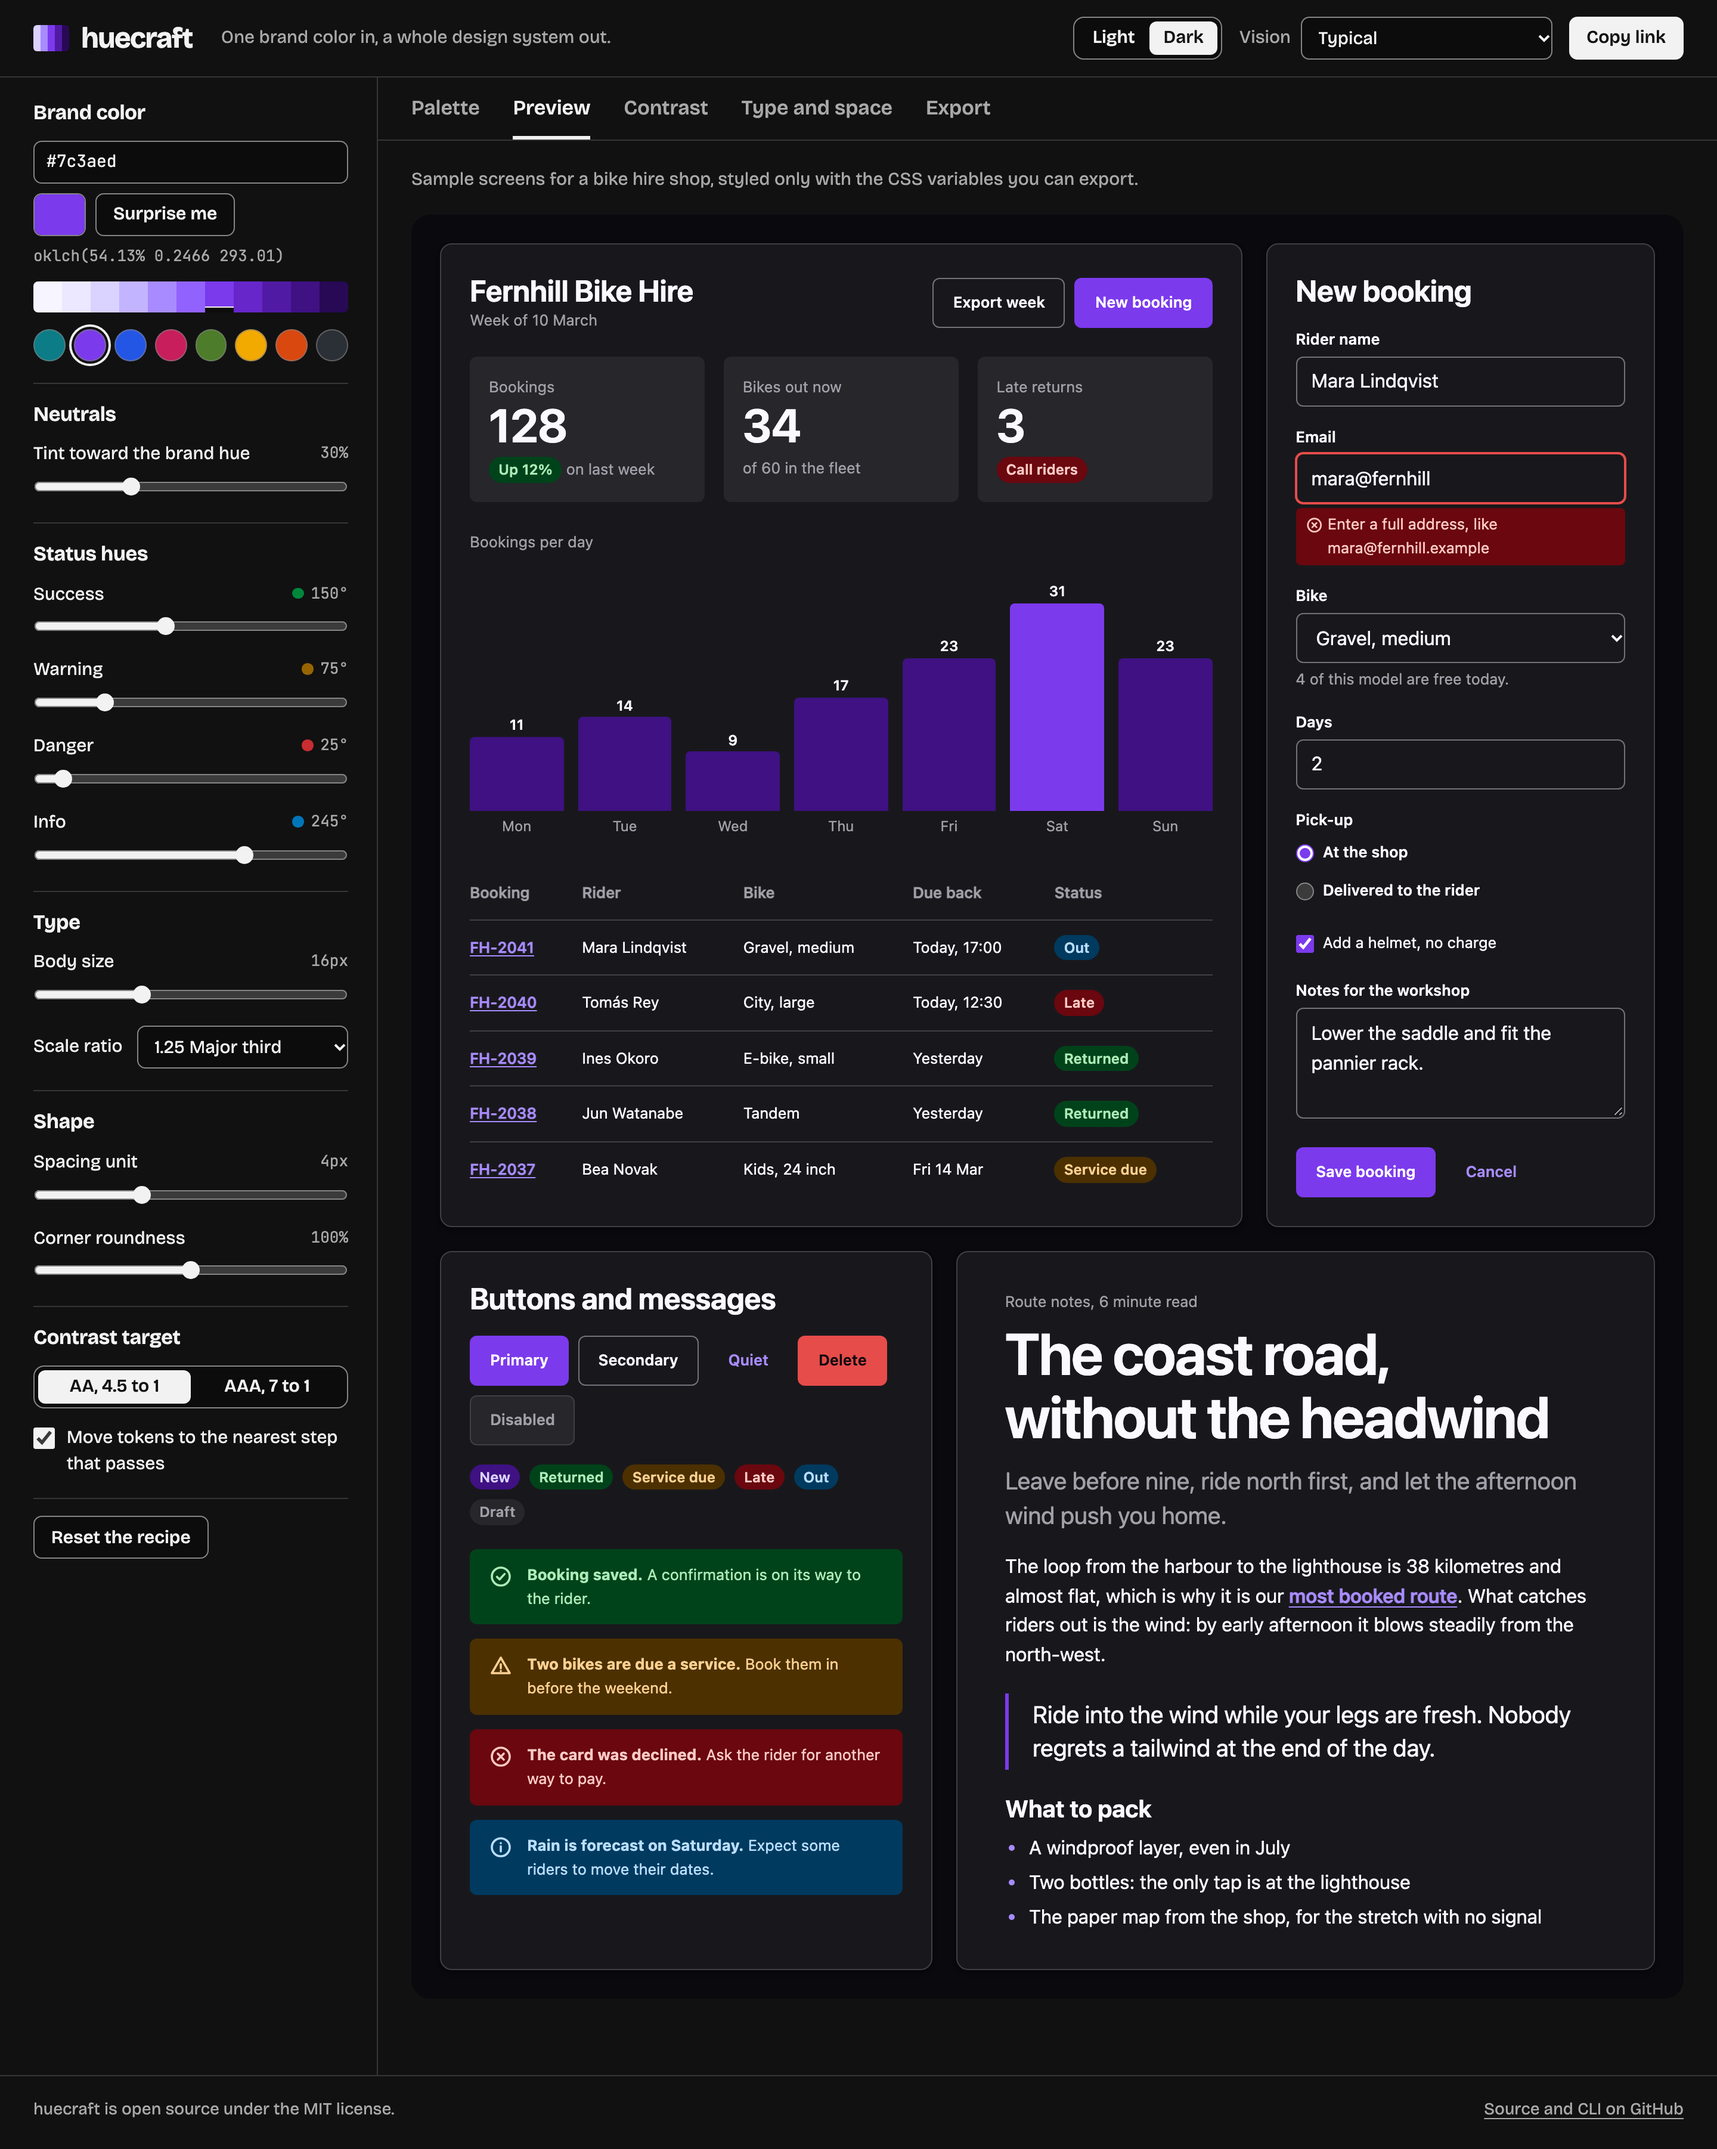
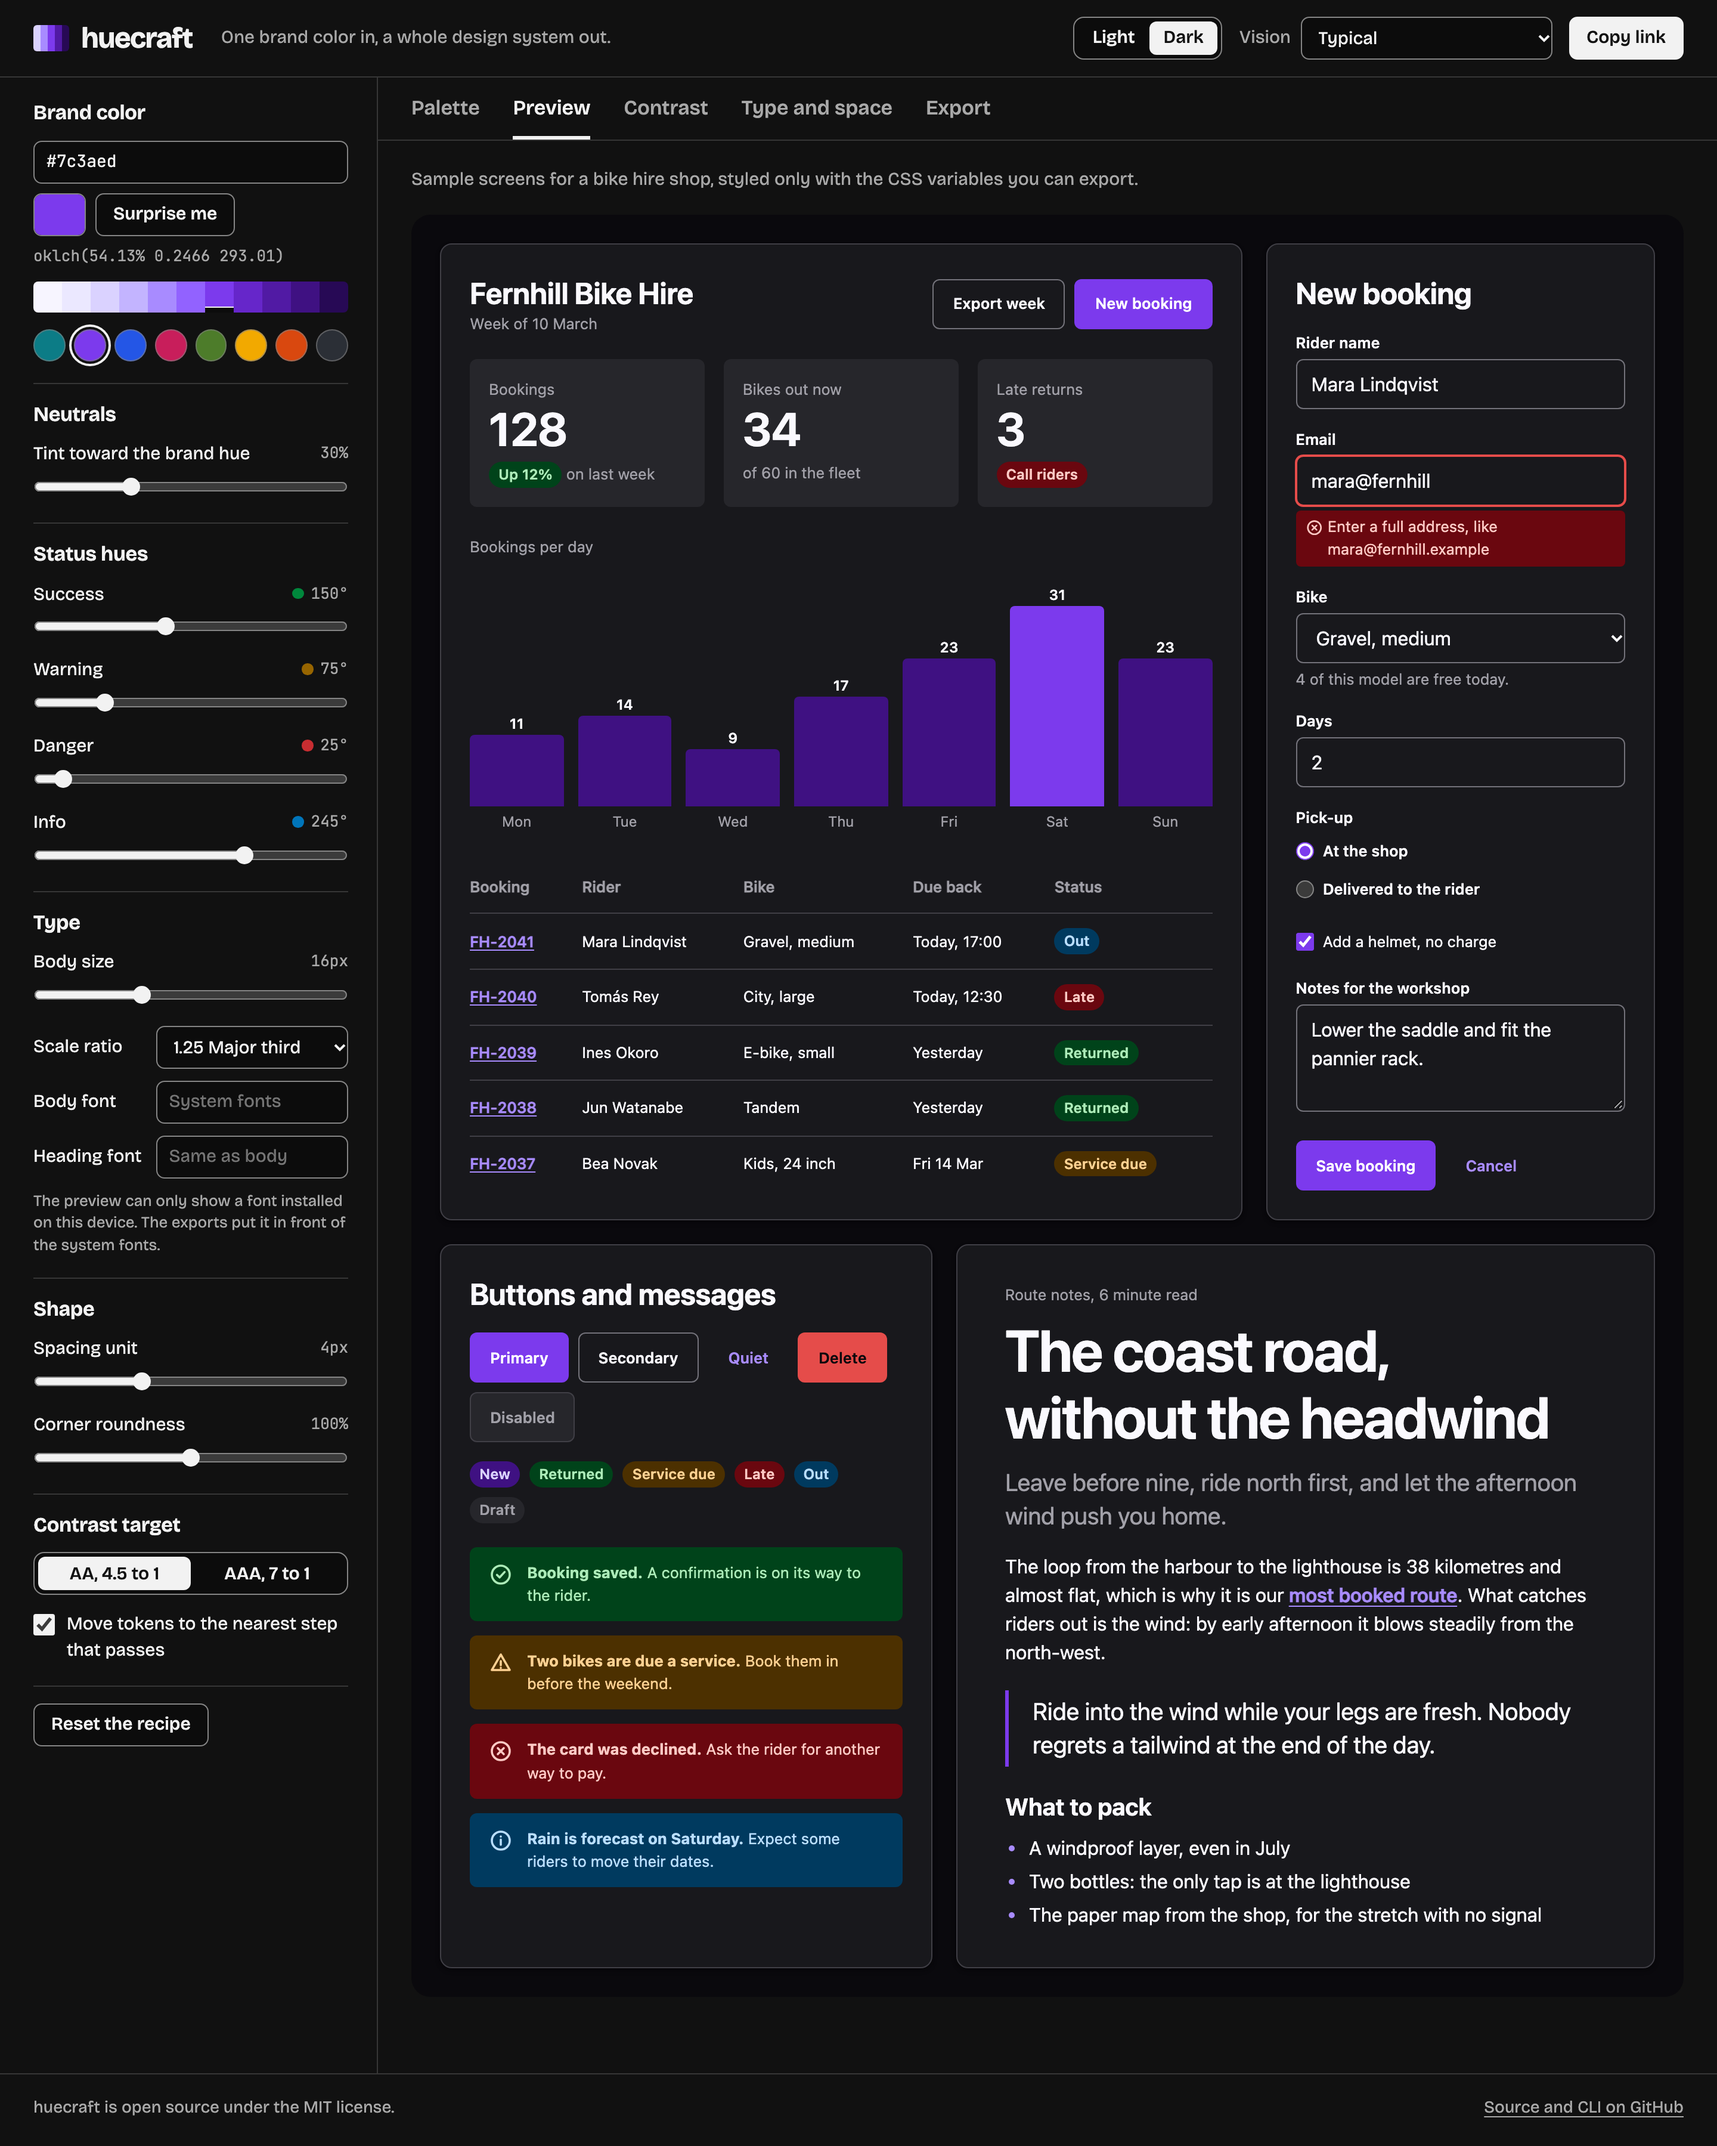
Add body and heading font fields to the studio; style the preview with the line-height tokens

diff --git a/src/app/main.ts b/src/app/main.ts
@@ -5,7 +5,7 @@ import { exportTokens, FORMATS, isFormat, type Format } from '../core/export.ts'
 import { SCALE_NAMES, STATUSES, type ScaleName } from '../core/scales.ts';
 import type { Theme } from '../core/semantic.ts';
 import {
-  buildTokens, CLASH_DEGREES, DEFAULT_RECIPE, hueClashes, LIMITS, RATIOS, recipeFromParams, recipeToCommand, recipeToParams, type Recipe, type TokenSet,
+  buildTokens, CLASH_DEGREES, DEFAULT_RECIPE, hueClashes, LIMITS, parseFontName, RATIOS, recipeFromParams, recipeToCommand, recipeToParams, type Recipe, type TokenSet,
 } from '../core/tokens.ts';
 import { PREVIEW_HTML } from './preview.ts';
 import { renderCode, renderContrast, renderPalette, renderScale } from './views.ts';
@@ -161,6 +161,14 @@ function syncControls(): void {
   const clashes = hueClashes(recipe).map(({ a, b, degrees }) =>
     `<strong>${b[0]!.toUpperCase() + b.slice(1)} is ${degrees}° from ${a === 'brand' ? 'your brand' : a}</strong> and may be mistaken for it.`);
   $('hue-note').innerHTML = clashes.length ? `${clashes.join(' ')} Keep hues at least ${CLASH_DEGREES}° apart.` : '';
+  for (const key of ['font', 'heading'] as const) {
+    const input = $<HTMLInputElement>(key);
+    if (document.activeElement !== input) {
+      input.value = recipe[key];
+      input.removeAttribute('aria-invalid');
+    }
+  }
+  $('font-error').hidden = !document.querySelector('.type-fields [aria-invalid]');
   $<HTMLInputElement>('fix').checked = recipe.fix;
   for (const r of radios('level')) r.checked = r.value === recipe.level;
   for (const r of radios('theme')) r.checked = r.value === state.theme;
@@ -264,6 +272,20 @@ $('random').addEventListener('click', () => {
   const rand = (min: number, max: number) => min + Math.random() * (max - min);
   change({ brand: oklchToHex({ l: rand(0.45, 0.72), c: rand(0.1, 0.24), h: rand(0, 360) }) });
 });
+for (const key of ['font', 'heading'] as const) {
+  const input = $<HTMLInputElement>(key);
+  // Valid names apply as you type; a bad one is reported once the field is committed.
+  input.addEventListener('input', () => {
+    const name = parseFontName(input.value);
+    if (name === null) return;
+    input.removeAttribute('aria-invalid');
+    change({ [key]: name });
+  });
+  input.addEventListener('change', () => {
+    if (parseFontName(input.value) === null) input.setAttribute('aria-invalid', 'true');
+    $('font-error').hidden = !document.querySelector('.type-fields [aria-invalid]');
+  });
+}
 $('ratio').addEventListener('change', (e) => change({ ratio: Number((e.target as HTMLSelectElement).value) }));
 $('fix').addEventListener('change', (e) => change({ fix: (e.target as HTMLInputElement).checked }));
 for (const r of radios('level')) r.addEventListener('change', () => change({ level: r.value as Recipe['level'] }));

diff --git a/src/app/views.ts b/src/app/views.ts
@@ -143,8 +143,8 @@ export function renderContrast(tokens: TokenSet, theme: Theme, matrix: { fg: Sca
 export function renderScale(tokens: TokenSet): void {
   const type = [...tokens.type].reverse().map((s) => `<li>
       <code>--text-${s.name}</code>
-      <span class="spec-sample${s.minPx === s.maxPx ? ' is-body' : ''}" style="font-size:var(--text-${s.name})">Ride north first</span>
-      <span class="spec-meta">${s.minPx === s.maxPx ? px(s.maxPx) : `${px(s.minPx)} to ${px(s.maxPx)}`}</span>
+      <span class="spec-sample${s.minPx === s.maxPx ? ' is-body' : ''}" style="font-size:var(--text-${s.name});line-height:var(--text-${s.name}--line-height)${s.minPx === s.maxPx ? '' : ';font-family:var(--font-heading)'}">Ride north first</span>
+      <span class="spec-meta">${s.minPx === s.maxPx ? px(s.maxPx) : `${px(s.minPx)} to ${px(s.maxPx)}`} / ${s.lineHeight}</span>
     </li>`).join('');
   const space = tokens.space.map((s) => `<li>
       <code>--space-${s.name}</code><span class="spec-meta">${px(s.px)}</span><i style="width:${s.px}px"></i>
@@ -160,7 +160,7 @@ export function renderScale(tokens: TokenSet): void {
     <p class="panel-note">Sizes above the body size are fluid: they grow from the smaller value on a ${VIEWPORT_MIN}px wide
     screen to the larger one at ${VIEWPORT_MAX}px, using clamp(). Everything is in rem, so browser zoom still works.</p>
     <div class="pv spec">
-      <section class="pv-card spec-type" aria-labelledby="spec-type"><h3 id="spec-type">Type scale, ratio ${esc(String(tokens.recipe.ratio))}</h3><ol>${type}</ol></section>
+      <section class="pv-card spec-type" aria-labelledby="spec-type"><h3 id="spec-type">Type scale, ratio ${esc(String(tokens.recipe.ratio))}</h3><p class="pv-muted spec-fonts">Headings: ${esc(tokens.recipe.heading || tokens.recipe.font || 'system fonts')}. Body: ${esc(tokens.recipe.font || 'system fonts')}. Size / line height.</p><ol>${type}</ol></section>
       <section class="pv-card spec-space" aria-labelledby="spec-space"><h3 id="spec-space">Spacing</h3><ol>${space}</ol></section>
       <div style="display:grid;gap:var(--space-5);align-content:start">
         <section class="pv-card spec-radius" aria-labelledby="spec-radius"><h3 id="spec-radius">Radius <code>--radius-*</code></h3><ol class="spec-tiles">${radius}</ol></section>

diff --git a/src/app/preview.css b/src/app/preview.css
@@ -11,23 +11,25 @@
   color: var(--color-text);
   font-family: var(--font-sans);
   font-size: var(--text-base);
-  line-height: 1.55;
+  line-height: var(--text-base--line-height);
 }
 .pv :focus-visible {
   outline: 2px solid var(--color-ring);
   outline-offset: 2px;
 }
 .pv h3 {
+  font-family: var(--font-heading);
   font-size: var(--text-xl);
   font-weight: 650;
-  line-height: 1.2;
+  line-height: var(--text-xl--line-height);
   letter-spacing: -0.01em;
 }
 .pv h4 {
   margin: var(--space-5) 0 var(--space-2);
+  font-family: var(--font-heading);
   font-size: var(--text-lg);
   font-weight: 650;
-  line-height: 1.25;
+  line-height: var(--text-lg--line-height);
 }
 .pv a {
   color: var(--color-primary-text);
@@ -175,7 +177,7 @@
   display: block;
   font-size: var(--text-3xl);
   font-weight: 650;
-  line-height: 1.15;
+  line-height: var(--text-3xl--line-height);
   letter-spacing: -0.02em;
 }
 .pv-stats dd > span {
@@ -364,14 +366,14 @@
 .pv-article h3 {
   margin: var(--space-2) 0 var(--space-3);
   font-size: var(--text-4xl);
-  line-height: 1.08;
+  line-height: var(--text-4xl--line-height);
   letter-spacing: -0.025em;
   text-wrap: balance;
 }
 .pv-lead {
   color: var(--color-text-muted);
   font-size: var(--text-lg);
-  line-height: 1.45;
+  line-height: var(--text-lg--line-height);
 }
 .pv-article p + p {
   margin-top: var(--space-4);
@@ -381,7 +383,7 @@
   padding: var(--space-1) 0 var(--space-1) var(--space-5);
   border-left: 3px solid var(--color-primary);
   font-size: var(--text-lg);
-  line-height: 1.4;
+  line-height: var(--text-lg--line-height);
 }
 .pv-article ul {
   padding-left: var(--space-5);

diff --git a/index.html b/index.html
@@ -116,10 +116,19 @@
               <output for="base" id="base-out"></output>
               <input type="range" id="base" />
             </div>
-            <div class="select-row">
+            <div class="type-fields">
               <label for="ratio">Scale ratio</label>
               <select id="ratio"></select>
+              <label for="font">Body font</label>
+              <input type="text" id="font" placeholder="System fonts" spellcheck="false" maxlength="60" aria-describedby="font-error font-note" />
+              <label for="heading">Heading font</label>
+              <input type="text" id="heading" placeholder="Same as body" spellcheck="false" maxlength="60" aria-describedby="font-error font-note" />
             </div>
+            <p class="field-error" id="font-error" role="alert" hidden>
+              <svg viewBox="0 0 20 20" width="18" height="18" fill="none" stroke="currentColor" stroke-width="2" stroke-linecap="round" aria-hidden="true"><circle cx="10" cy="10" r="7.5" /><path d="M10 6v4.5M10 13.6v.1" /></svg>
+              <span>Type one family name, such as Source Sans 3: letters, digits, spaces and hyphens only.</span>
+            </p>
+            <p class="font-note" id="font-note">The preview can only show a font installed on this device. The exports put it in front of the system fonts.</p>
           </fieldset>
 
           <fieldset class="group">

diff --git a/src/app/chrome.css b/src/app/chrome.css
@@ -380,8 +380,7 @@ input[type='color']::-moz-color-swatch {
   grid-template-columns: 1fr auto;
   gap: 4px 8px;
 }
-.slider + .slider,
-.slider + .select-row {
+.slider + .slider {
   margin-top: 14px;
 }
 .slider output {
@@ -414,18 +413,21 @@ input[type='color']::-moz-color-swatch {
 .hue-note strong {
   font-weight: 650;
 }
-.select-row {
-  display: flex;
+.type-fields {
+  display: grid;
+  grid-template-columns: auto minmax(0, 1fr);
   align-items: center;
-  justify-content: space-between;
-  gap: 12px;
+  gap: 10px 12px;
+  margin-top: 14px;
 }
-.select-row label {
+.type-fields label {
   white-space: nowrap;
 }
-.select-row select {
-  flex: 1;
-  min-width: 0; /* the longest option would otherwise push the label onto two lines */
+.font-note {
+  margin-top: 10px;
+  color: var(--c-muted);
+  font-size: 0.8125rem;
+  line-height: 1.4;
 }
 .check {
   display: flex;
